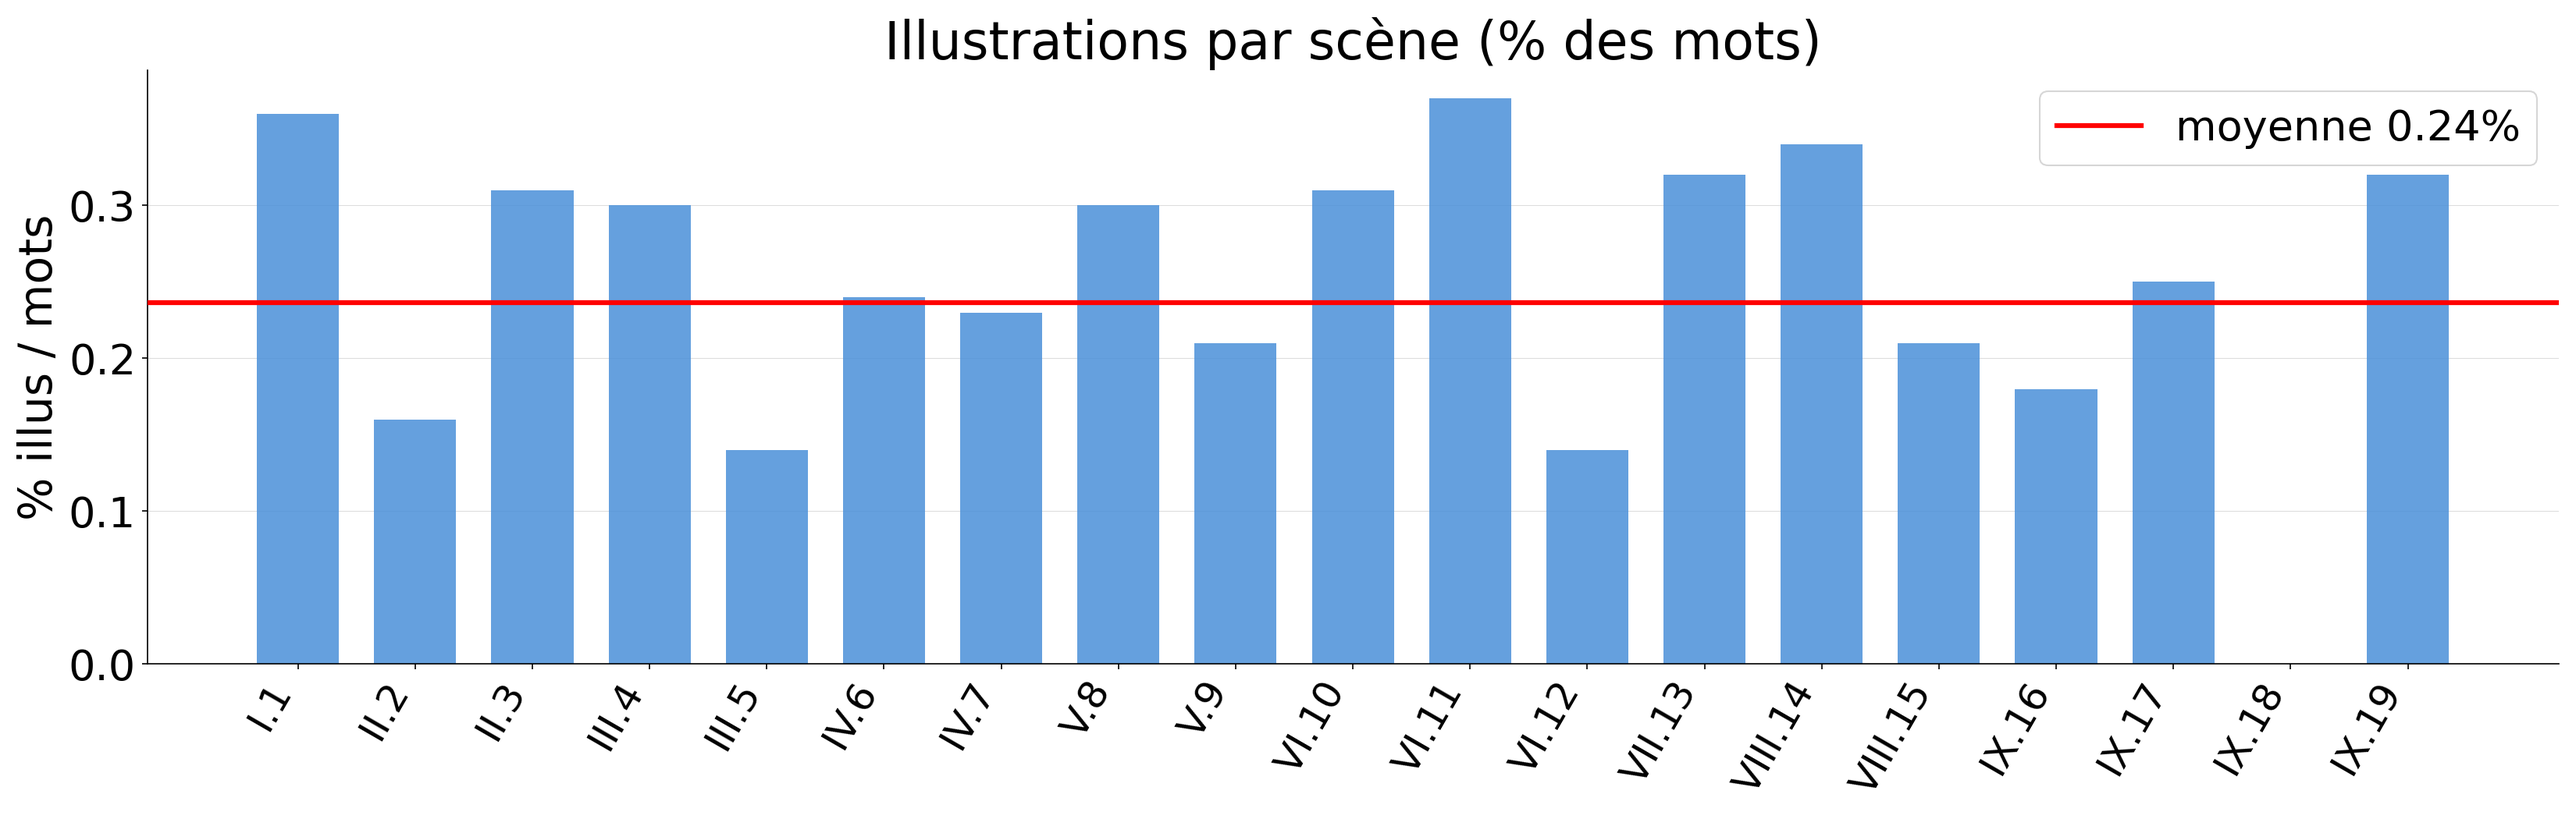
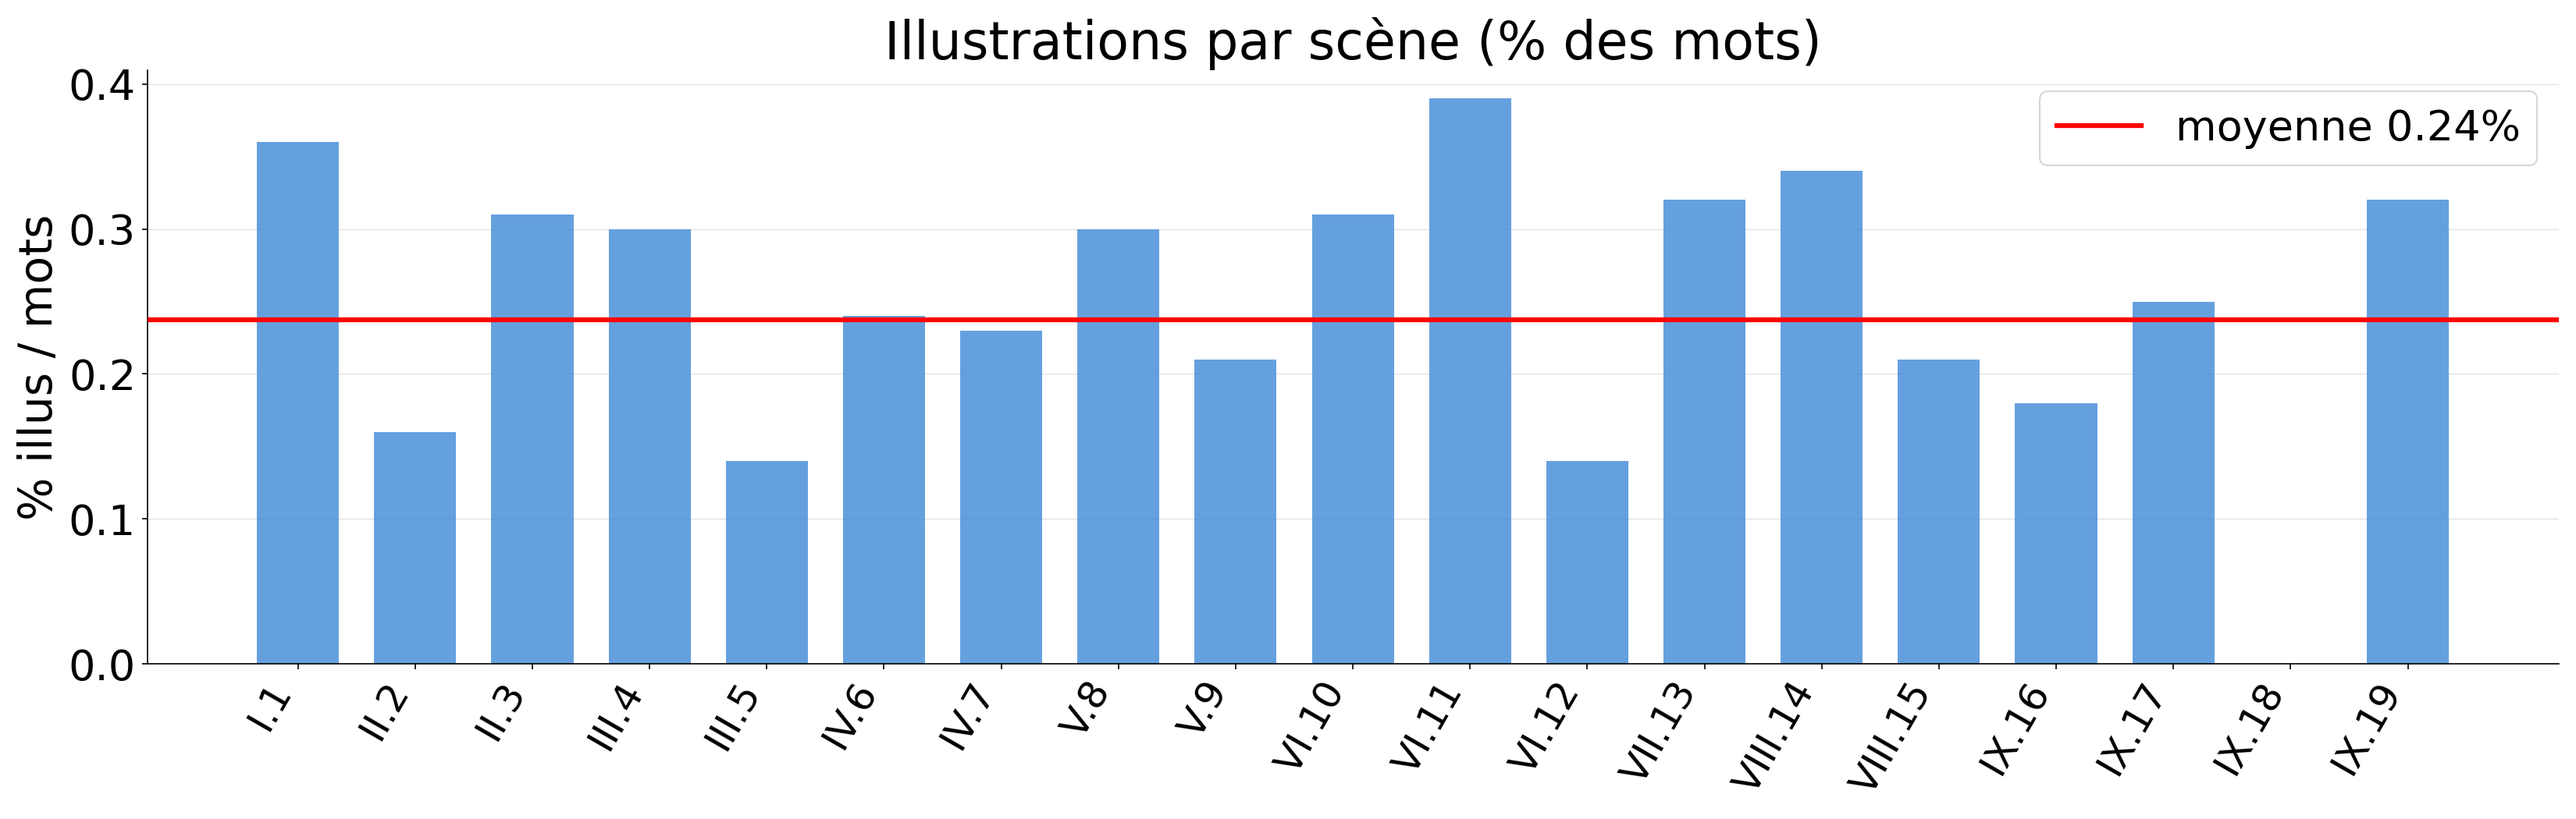
new stats

diff --git a/figures/rambo_fig.tex b/figures/rambo_fig.tex
@@ -8,14 +8,14 @@
   \begin{minipage}[t]{0.44\textwidth}
     \raggedright
     \illusloflabel{Clint Eastwood}%
-    \bwimage[height=0.27\textheight]{acte_06/scene_11/rambo/_0590_clint-eastwood.jpg}\\[0.125ex]
+    \bwimage[height=0.28\textheight]{acte_06/scene_11/rambo/_0590_clint-eastwood.jpg}\\[0.125ex]
     {\figcaptionname\itshape Clint Eastwood} {\figcaptiondetail 1930--}
   \end{minipage}
   \hfill
   \begin{minipage}[t]{0.44\textwidth}
     \raggedleft
     \illusloflabel{Steve McQueen}%
-    \bwimage[height=0.27\textheight]{acte_06/scene_11/rambo/_0580_steve-mcqueen.jpg}\\[0.125ex]
+    \bwimage[height=0.28\textheight]{acte_06/scene_11/rambo/_0580_steve-mcqueen.jpg}\\[0.125ex]
     {\figcaptionname\itshape Steve McQueen} {\figcaptiondetail 1930--1980}
   \end{minipage}
 
@@ -27,14 +27,14 @@
   \begin{minipage}[t]{0.44\textwidth}
     \raggedright
     \illusloflabel{Dustin Hoffman}%
-    \bwimage[height=0.27\textheight]{acte_06/scene_11/rambo/_0550_dustin-hoffman.jpg}\\[0.125ex]
+    \bwimage[height=0.28\textheight]{acte_06/scene_11/rambo/_0550_dustin-hoffman.jpg}\\[0.125ex]
     {\figcaptionname\itshape Dustin Hoffman} {\figcaptiondetail 1937--}
   \end{minipage}
   \hfill
   \begin{minipage}[t]{0.44\textwidth}
     \raggedleft
     \illusloflabel{Al Pacino}%
-    \bwimage[height=0.27\textheight]{acte_06/scene_11/rambo/_0560_al-pacino.jpg}\\[0.125ex]
+    \bwimage[height=0.28\textheight]{acte_06/scene_11/rambo/_0560_al-pacino.jpg}\\[0.125ex]
     {\figcaptionname\itshape Al Pacino} {\figcaptiondetail 1940--}
   \end{minipage}
 
@@ -46,14 +46,14 @@
   \begin{minipage}[t]{0.44\textwidth}
     \raggedright
     \illusloflabel{Robert De Niro}%
-    \bwimage[height=0.27\textheight]{acte_06/scene_11/rambo/_0570_robert-de-niro.jpg}\\[0.125ex]
+    \bwimage[height=0.28\textheight]{acte_06/scene_11/rambo/_0570_robert-de-niro.jpg}\\[0.125ex]
     {\figcaptionname\itshape Robert De Niro} {\figcaptiondetail 1943--}
   \end{minipage}
   \hfill
   \begin{minipage}[t]{0.44\textwidth}
     \raggedleft
     \illusloflabel{Sylvester Stallone}%
-    \bwimage[height=0.27\textheight]{acte_06/scene_11/rambo/_0000_sylvester-stallone.jpg}\\[0.125ex]
+    \bwimage[height=0.28\textheight]{acte_06/scene_11/rambo/_0000_sylvester-stallone.jpg}\\[0.125ex]
     {\figcaptionname\itshape Sylvester Stallone} {\figcaptiondetail 1946--}
   \end{minipage}
 

diff --git a/stats.py b/stats.py
@@ -15,7 +15,7 @@ ACTES_DIR = ROOT / "actes"
 BUILD     = ROOT / "build"
 OUT_FILE  = ROOT / "stats.md"
 
-ILLUS_TARGET =424  # target: 1 illustration every N words (overridable via --target)
+ILLUS_TARGET = 422  # target: 1 illustration every N words (overridable via --target)
 
 TOC_MAIN   = BUILD / "tete_de_veau_ravigote.toc"
 TOC_TOTALE = BUILD / "tete_de_veau_ravigote_LA_TOTALE.toc"

diff --git a/stats.md b/stats.md
@@ -13,20 +13,20 @@ Mots = texte original uniquement (hors contenu des notes `\nf{}`).
 | IV.6 | Il y a ce qu’on appelle la… | 173 |  44 |  11 313 |   6.05% |  28.52% |    45 |  0.40% |            27 |  0.24% |
 | IV.7 | Depuis que mon ami Grégoire Lussier, ancien… | 217 |  34 |   8 365 |   4.48% |  30.70% |    43 |  0.51% |            19 |  0.23% |
 | V.8 | Croyez-le ou non, mais Aymeric Jégou et… | 251 |  36 |   8 904 |   4.76% |  56.56% |    44 |  0.49% |            27 |  0.30% |
-| V.9 | Ce soir-là, alors même que les combats… | 287 |  44 |  10 812 |   5.79% |  31.34% |    56 |  0.52% |            23 |  0.21% |
+| V.9 | Ce soir-là, alors même que les combats… | 287 |  44 |  10 812 |   5.78% |  31.34% |    56 |  0.52% |            23 |  0.21% |
 | VI.10 | J’ai tout juste eu le temps de… | 331 |  42 |  10 088 |   5.40% |  35.32% |    92 |  0.91% |            31 |  0.31% |
-| VI.11 | On en était là de nos aventures… | 373 |  44 |  10 677 |   5.71% |  19.36% |    85 |  0.80% |            40 |  0.37% |
+| VI.11 | On en était là de nos aventures… | 373 |  44 |  10 705 |   5.73% |  19.41% |    86 |  0.80% |            42 |  0.39% |
 | VI.12 | La voiture s’est approchée, au ralenti, et… | 417 |  40 |   9 059 |   4.85% |  91.32% |    24 |  0.26% |            13 |  0.14% |
 | VII.13 | Et on y est allé, figurez-vous, car… | 457 |  16 |   2 852 |   1.53% |  56.21% |    13 |  0.46% |             9 |  0.32% |
 | VIII.14 | Trois quarts d’heure plus tard, après avoir… | 473 |  36 |   9 794 |   5.24% |   0.00% |    56 |  0.57% |            33 |  0.34% |
 | VIII.15 | Les chaussures à semelle de cuir sont… | 509 |  28 |   6 822 |   3.65% |  52.49% |    55 |  0.81% |            14 |  0.21% |
-| IX.16 | Cette nuit-là, j’ai fait des rêves étranges… | 537 | 124 |  33 443 |  17.90% |  20.84% |   248 |  0.74% |            60 |  0.18% |
-| IX.17 | Une porte d’ascenseur venait de s’ouvrir, non… | 661 |  36 |  10 456 |   5.60% |   3.04% |    68 |  0.65% |            26 |  0.25% |
-| IX.18 | Comme beaucoup d’urgentistes souffrant de handicap visuel… | 697 |  26 |   7 373 |   3.95% |  48.11% |    10 |  0.14% |             — |      — |
-| IX.19 | Il est toujours extrêmement douloureux de mettre… | 723 | 226 |   6 214 |   3.33% |  25.43% |    23 |  0.37% |            20 |  0.32% |
-| **Total** | |  |  | **186 875** | **100%** | **29.40%** | **1079** | **0.58%** | **442** | **0.24%** |
+| IX.16 | Cette nuit-là, j’ai fait des rêves étranges… | 537 | 124 |  33 443 |  17.89% |  20.84% |   248 |  0.74% |            60 |  0.18% |
+| IX.17 | Une porte d’ascenseur venait de s’ouvrir, non… | 661 |  36 |  10 456 |   5.59% |   3.04% |    68 |  0.65% |            26 |  0.25% |
+| IX.18 | Comme beaucoup d’urgentistes souffrant de handicap visuel… | 697 |  26 |   7 373 |   3.94% |  48.11% |    10 |  0.14% |             — |      — |
+| IX.19 | Il est toujours extrêmement douloureux de mettre… | 723 | 212 |   6 214 |   3.32% |  25.43% |    23 |  0.37% |            20 |  0.32% |
+| **Total** | |  |  | **186 903** | **100%** | **29.41%** | **1080** | **0.58%** | **444** | **0.24%** |
 
-![Illustrations par scène](stats_illus_chart.png?v=26b734e0)
+![Illustrations par scène](stats_illus_chart.png?v=2a141d74)
 
 # Statistiques par acte (avant découpage)
 
@@ -40,15 +40,15 @@ Mots = texte original uniquement (hors contenu des notes `\nf{}`).
 | III  |  73 |  68 |  19 563 |  10.47% |   110 |  0.56% |            45 |  0.23% |
 | IV   | 141 |  64 |  19 678 |  10.53% |    88 |  0.45% |            46 |  0.23% |
 | V    | 205 |  66 |  19 716 |  10.55% |   100 |  0.51% |            50 |  0.25% |
-| VI   | 271 | 106 |  29 824 |  15.96% |   201 |  0.67% |            84 |  0.28% |
+| VI   | 271 | 106 |  29 852 |  15.97% |   202 |  0.68% |            86 |  0.29% |
 | VII  | 377 |  12 |   2 852 |   1.53% |    13 |  0.46% |             9 |  0.32% |
 | VIII | 389 |  54 |  16 616 |   8.89% |   111 |  0.67% |            47 |  0.28% |
 | IX   | 443 | 184 |  57 486 |  30.76% |   349 |  0.61% |           106 |  0.18% |
-| **Total** |  |  | **186 875** | **100%** | **1079** | **0.58%** | **442** | **0.24%** |
+| **Total** |  |  | **186 903** | **100%** | **1080** | **0.58%** | **444** | **0.24%** |
 
 ## Estimation illustrations restantes
 
-Cible : **1 illustration tous les 424 mots** (186 875 mots → **441** illustrations).  
-Actuellement **442** — il en manque **0** — **100.2 %** réalisé.
+Cible : **1 illustration tous les 422 mots** (186 903 mots → **443** illustrations).  
+Actuellement **444** — il en manque **0** — **100.2 %** réalisé.
 
-Sous-illustrées (< 0.7× la cible) : IX.18 (0/17.4)
+Sous-illustrées (< 0.7× la cible) : IX.18 (0/17.5)
